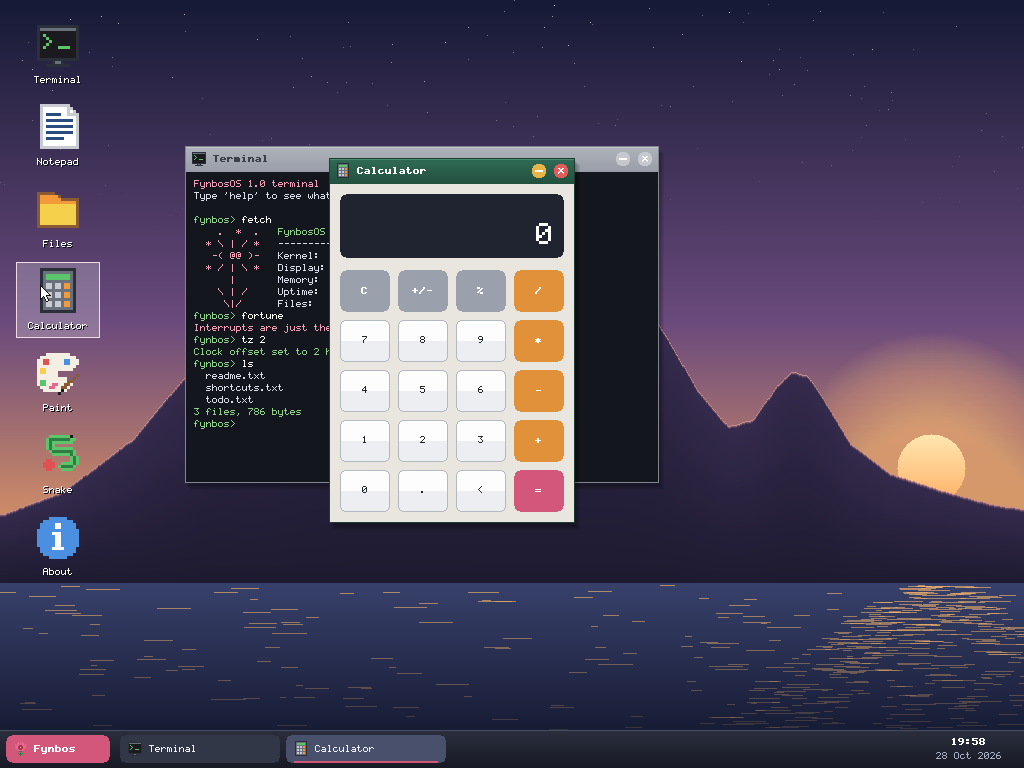
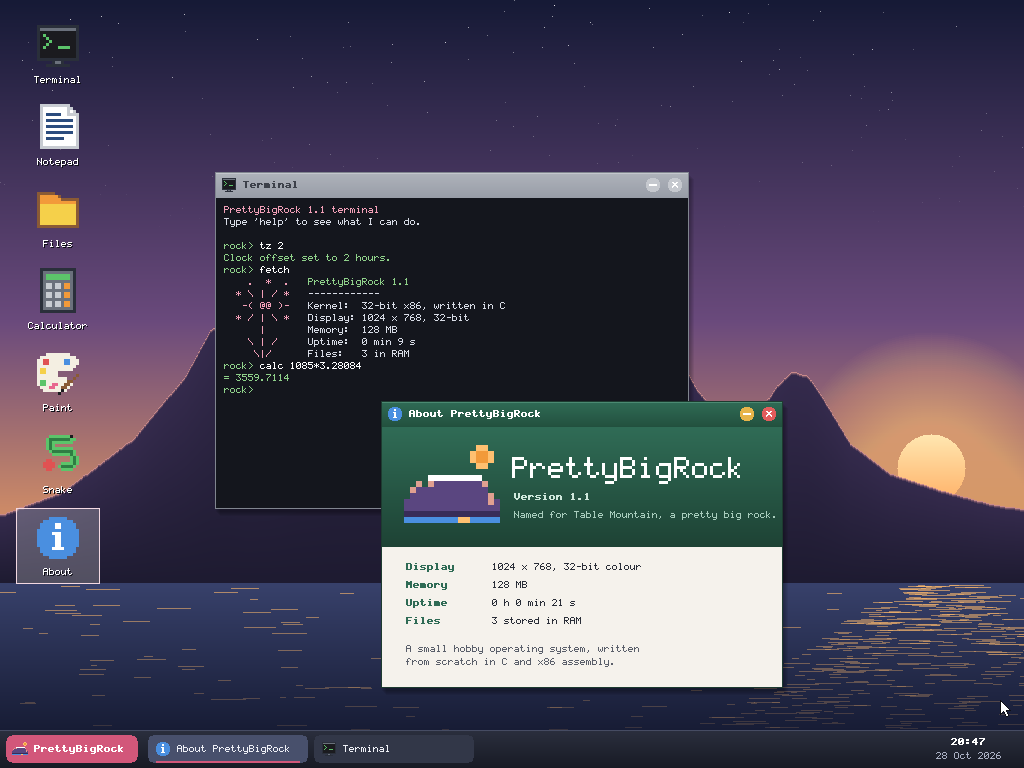
Rename FynbosOS to PrettyBigRock 1.1
Chris points at Table Mountain and calls it a big rock, or a pretty rock.
Renamed the OS throughout, drew a new Table Mountain logo, changed the
terminal prompt to rock>, and hid a small easter egg in the terminal.
The original lives on as tag fynbos-1.0.

Claude-Session: https://claude.ai/code/session_01Aqxv5PaQPAeokxMpVTUa43

diff --git a/kernel/wm.c b/kernel/wm.c
@@ -1,9 +1,11 @@
 /* SPDX-License-Identifier: GPL-3.0-or-later
  * Copyright (C) 2026 Christopher Cameron-Dow */
-/* FynbosOS - window manager, desktop, taskbar and start menu */
+/* PrettyBigRock - window manager, desktop, taskbar and start menu */
 #include "kernel.h"
 
 #define MAXWIN 16
+#define START_W 132
+#define TB_X (START_W + 16)
 
 static window_t wins[MAXWIN];
 static window_t *zord[MAXWIN];
@@ -326,16 +328,16 @@ static void draw_taskbar(void) {
     gfx_fill(0, y, SW, 1, 0x464c63);
 
     /* start button */
-    gfx_round(6, y + 5, 104, TASKBAR_H - 10, 6, menu_open ? 0xa83d5d : C_ACCENT);
-    gfx_icon(ICON_PROTEA, 12, y + 11, 1);
-    gfx_text_bold(34, y + 15, "Fynbos", 0xffffff);
+    gfx_round(6, y + 5, START_W, TASKBAR_H - 10, 6, menu_open ? 0xa83d5d : C_ACCENT);
+    gfx_icon(ICON_LOGO, 12, y + 11, 1);
+    gfx_text_bold(34, y + 15, "PrettyBigRock", 0xffffff);
 
     /* one button per open window */
-    int bx = 120;
+    int bx = TB_X;
     int bw = 160;
     int count = 0;
     for (int i = 0; i < MAXWIN; i++) if (wins[i].used) count++;
-    int avail = SW - 120 - 120;
+    int avail = SW - TB_X - 120;
     if (count && count * (bw + 6) > avail) bw = avail / count - 6;
     window_t *top = wm_top();
     for (int i = 0; i < MAXWIN; i++) {
@@ -371,11 +373,11 @@ static void draw_menu(void) {
     gfx_fill(m.x + 4, m.y + m.h - 4, MENU_BANNER - 4, 4, 0x6a2a52);
     gfx_round(m.x, m.y, 10, 10, 5, 0xd2577a);
     gfx_round(m.x, m.y + m.h - 10, 10, 10, 5, 0x6a2a52);
-    /* vertical "FYNBOS" on the banner */
-    const char *v = "FYNBOS";
+    /* the name runs up the banner */
+    const char *v = "PRETTY BIG ROCK";
     int vl = (int)strlen(v);
     for (int i = 0; i < vl; i++) gfx_char(m.x + 12, m.y + m.h - 14 - (vl - i) * 12, v[i], 0xffffff, 1);
-    gfx_icon(ICON_PROTEA, m.x + 7, m.y + 8, 1);
+    gfx_icon(ICON_LOGO, m.x + 7, m.y + 8, 1);
     for (int i = 0; i < MENU_ITEMS; i++) {
         int iy = menu_item_y(i);
         int ix = m.x + MENU_BANNER + 4;
@@ -411,8 +413,8 @@ static void render(void) {
 static void shutdown_screen(void) {
     gfx_set_clip((rect_t){0, 0, SW, SH});
     gfx_fill(0, 0, SW, SH, 0x12141c);
-    gfx_icon(ICON_PROTEA, SW / 2 - 48, SH / 2 - 120, 6);
-    const char *a = "FynbosOS has shut down.";
+    gfx_icon(ICON_LOGO, SW / 2 - 48, SH / 2 - 120, 6);
+    const char *a = "PrettyBigRock has shut down.";
     const char *b = "You can close the virtual machine window now.";
     gfx_text_scaled((SW - gfx_text_w(a) * 2) / 2, SH / 2 + 2, a, 0xffffff, 2);
     gfx_text((SW - gfx_text_w(b)) / 2, SH / 2 + 36, b, 0xa9afc2);
@@ -440,10 +442,10 @@ static void toggle_menu(void) {
 static void taskbar_click(int dbl) {
     (void)dbl;
     int y = SH - TASKBAR_H;
-    if (mx >= 6 && mx < 110 && my >= y + 5) { toggle_menu(); return; }
-    int bx = 120, bw = 160, count = 0;
+    if (mx >= 6 && mx < 6 + START_W && my >= y + 5) { toggle_menu(); return; }
+    int bx = TB_X, bw = 160, count = 0;
     for (int i = 0; i < MAXWIN; i++) if (wins[i].used) count++;
-    int avail = SW - 120 - 120;
+    int avail = SW - TB_X - 120;
     if (count && count * (bw + 6) > avail) bw = avail / count - 6;
     for (int i = 0; i < MAXWIN; i++) {
         window_t *w = &wins[i];
@@ -466,7 +468,7 @@ static void on_press(void) {
 
     if (menu_open) {
         if (rect_has(menu_rect(), mx, my)) { menu_activate(menu_hit(mx, my)); return; }
-        int on_start = my >= SH - TASKBAR_H && mx < 110;
+        int on_start = my >= SH - TASKBAR_H && mx < 6 + START_W;
         menu_open = 0;
         wm_dirty_all();
         if (on_start) return;

diff --git a/kernel/term.c b/kernel/term.c
@@ -1,6 +1,6 @@
 /* SPDX-License-Identifier: GPL-3.0-or-later
  * Copyright (C) 2026 Christopher Cameron-Dow */
-/* FynbosOS - Terminal app with a small command shell */
+/* PrettyBigRock - Terminal app with a small command shell */
 #include "kernel.h"
 
 #define T_COLS 76
@@ -8,8 +8,8 @@
 #define T_HIST 300
 #define T_INMAX 90
 
-enum { K_NORMAL, K_GOOD, K_BAD, K_CMD, K_HEAD };
-static const u32 kind_color[] = {0xd8dce6, 0x8fd18a, 0xf08a8a, 0xffffff, 0xf2a0b8};
+enum { K_NORMAL, K_GOOD, K_BAD, K_CMD, K_HEAD, K_SPUD };
+static const u32 kind_color[] = {0xd8dce6, 0x8fd18a, 0xf08a8a, 0xffffff, 0xf2a0b8, 0xd9a066};
 
 static char lines[T_HIST][T_COLS + 1];
 static u8 kinds[T_HIST][T_COLS];
@@ -21,7 +21,7 @@ static char hist[16][T_INMAX + 1];
 static int nhist, hpos;
 static window_t *twin;
 
-static const char *PROMPT = "fynbos> ";
+static const char *PROMPT = "rock> ";
 
 static void t_newline(void) {
     if (nlines == T_HIST) {
@@ -87,6 +87,8 @@ static const char *fortunes[] = {
     "The south-easter clears the sky; the reset button clears the RAM.",
     "Small programs have small bugs. Mostly.",
     "When in doubt, print it out.",
+    "The mountain was here first. It can wait for your build to finish.",
+    "Big rock. Pretty rock. Pretty big rock.",
     "Interrupts are just the hardware asking for attention.",
 };
 
@@ -94,7 +96,7 @@ static void cmd_help(void) {
     t_puts("Commands:\n", K_HEAD);
     t_puts("  help              this list\n"
            "  clear             clear the screen\n"
-           "  about             about FynbosOS\n"
+           "  about             about PrettyBigRock\n"
            "  fetch             system summary\n"
            "  time | date       show the clock\n"
            "  tz <hours>        set the clock offset from the hardware time\n"
@@ -216,6 +218,15 @@ static void run(char *line) {
         for (int i = 0; i < APP_COUNT; i++)
             if (ieq_prefix(what, app_names[i])) { app_open(i); return; }
         t_puts("Unknown app. Try: notepad, files, calculator, paint, snake, about\n", K_BAD);
+    } else if (!strcmp(cmd, "potato")) {
+        /* not listed in 'help': you have to know about it */
+        t_puts("        .-~~~~-.\n"
+               "      .'  .     '.\n"
+               "     /  .    .    \\\n"
+               "    |      .    .  |\n"
+               "     \\  .     .   /\n"
+               "      '-.______.-'\n", K_SPUD);
+        t_puts("Hello, potato. <3\n", K_GOOD);
     } else if (!strcmp(cmd, "fortune")) {
         t_printf(K_HEAD, "%s\n", fortunes[krand() % (sizeof fortunes / sizeof *fortunes)]);
     } else if (!strcmp(cmd, "reboot")) reboot();

diff --git a/tools/mkassets.py b/tools/mkassets.py
@@ -1,7 +1,7 @@
 #!/usr/bin/env python3
 # SPDX-License-Identifier: GPL-3.0-or-later
 # Copyright (C) 2026 Christopher Cameron-Dow
-"""Generates kernel/assets.c: the FynbosOS bitmap font, icons and mouse cursor.
+"""Generates kernel/assets.c: the PrettyBigRock bitmap font, icons and mouse cursor.
 Every glyph and icon below was hand-drawn for this project."""
 import sys
 
@@ -110,6 +110,7 @@ PAL = {
  'k':0x1b1b1f,'w':0xffffff,'g':0xc8ccd2,'G':0x6b717c,'r':0xe05252,'o':0xf29a3a,
  'y':0xf5d04a,'e':0x5cc46a,'E':0x2f7d43,'b':0x4a8fe0,'B':0x2b4c7e,'p':0xe8678f,
  'P':0xa8325a,'n':0x8a5a35,'t':0x3aa6a0,'c':0xf4efe2,'s':0x2a2f3a,
+ 'm':0x5a4680,'M':0x382c58,'l':0xe0a090,'O':0xffc070,
 }
 PKEYS = list(PAL.keys())
 
@@ -233,22 +234,22 @@ ICONS = [
 "...bbbbbbbbbb...",
 ".....bbbbbb.....",
 "................"]),
-("protea", [
+("logo", [
 "................",
-"......p.p.p.....",
-".....pp.p.pp....",
-"...p.ppppppp.p..",
-"...ppppPPPpppp..",
-"....ppPPPPPpp...",
-"...pppPPyPPppp..",
-"....ppPPPPPpp...",
-".....ppPPPpp....",
-"......ppppp.....",
-".......EEE......",
-"........E.......",
-"......E.E.E.....",
-".......EEE......",
-"........E.......",
+"............OO..",
+"...........OooO.",
+"...........OooO.",
+"............OO..",
+"................",
+"....wwwwwwwww...",
+"..l.lmmmmmmmml..",
+".lmmmmmmmmmmmm..",
+".mmmmmmmmmmmmml.",
+"mmmmmmmmmmmmmmlm",
+"mmmmmmmmmmmmmmmm",
+"MMMMMMMMMMMMMMMM",
+"bbbbbbbbbOObbbbb",
+"................",
 "................"]),
 ("power", [
 "................",

diff --git a/kernel/apps.c b/kernel/apps.c
@@ -1,6 +1,6 @@
 /* SPDX-License-Identifier: GPL-3.0-or-later
  * Copyright (C) 2026 Christopher Cameron-Dow */
-/* FynbosOS - app launcher plus Calculator, Paint, Snake and About */
+/* PrettyBigRock - app launcher plus Calculator, Paint, Snake and About */
 #include "kernel.h"
 
 const char *app_names[APP_COUNT] = {"Terminal", "Notepad", "Files", "Calculator", "Paint", "Snake", "About"};
@@ -356,10 +356,10 @@ static u32 about_last;
 static void about_draw(window_t *w, int cx, int cy, int cw, int ch) {
     (void)w;
     gfx_vgrad(cx, cy, cw, 120, 0x2f6b55, 0x1d4234);
-    gfx_icon(ICON_PROTEA, cx + 22, cy + 12, 6);
+    gfx_icon(ICON_LOGO, cx + 22, cy + 12, 6);
     gfx_text_scaled(cx + 130, cy + 30, OS_NAME, 0xffffff, 3);
     gfx_text_bold(cx + 132, cy + 66, "Version " OS_VERSION, 0xcfe8dc);
-    gfx_text(cx + 132, cy + 84, "Named for the Cape's wild heath.", 0xa9cdbd);
+    gfx_text(cx + 132, cy + 84, "Named for Table Mountain, a pretty big rock.", 0xa9cdbd);
     gfx_fill(cx, cy + 120, cw, ch - 120, 0xf5f2ec);
     char buf[64];
     u32 s = ticks / 100;
@@ -385,7 +385,7 @@ static void about_tick(window_t *w) {
 }
 
 static void about_open(void) {
-    window_t *w = wm_create("About FynbosOS", 400, 260, APP_ABOUT);
+    window_t *w = wm_create("About PrettyBigRock", 400, 260, APP_ABOUT);
     if (!w) return;
     w->draw = about_draw;
     w->tick = about_tick;

diff --git a/kernel/fs.c b/kernel/fs.c
@@ -1,6 +1,6 @@
 /* SPDX-License-Identifier: GPL-3.0-or-later
  * Copyright (C) 2026 Christopher Cameron-Dow */
-/* FynbosOS - a tiny RAM filesystem (flat, no directories) */
+/* PrettyBigRock - a tiny RAM filesystem (flat, no directories) */
 #include "kernel.h"
 
 typedef struct { int used, size; char name[FS_NAME_LEN]; char *data; } file_t;
@@ -15,9 +15,9 @@ static void seed(const char *name, const char *text) {
 void fs_init(void) {
     for (int i = 0; i < FS_MAX_FILES; i++) files[i].data = kmalloc(FS_MAX_SIZE + 1);
     seed("readme.txt",
-         "Welcome to FynbosOS!\n"
+         "Welcome to PrettyBigRock!\n"
          "\n"
-         "FynbosOS is a small hobby operating system written from\n"
+         "PrettyBigRock is a small hobby operating system written from\n"
          "scratch: its own boot loader, kernel, drivers, font,\n"
          "window manager and apps.\n"
          "\n"
@@ -32,7 +32,7 @@ void fs_init(void) {
     seed("shortcuts.txt",
          "Keyboard shortcuts\n"
          "------------------\n"
-         "Windows key or Ctrl+Esc   open the Fynbos menu\n"
+         "Windows key or Ctrl+Esc   open the start menu\n"
          "Ctrl+W                    close the active window\n"
          "Ctrl+S (Notepad)          save the file\n"
          "Up / Down (Terminal)      command history\n"

diff --git a/kernel/kernel.h b/kernel/kernel.h
@@ -1,6 +1,6 @@
 /* SPDX-License-Identifier: GPL-3.0-or-later
  * Copyright (C) 2026 Christopher Cameron-Dow */
-/* FynbosOS - shared kernel header */
+/* PrettyBigRock - shared kernel header */
 #pragma once
 #include <stdint.h>
 #include <stddef.h>
@@ -13,8 +13,8 @@ typedef int8_t i8;
 typedef int32_t i32;
 typedef uint64_t u64;
 
-#define OS_NAME    "FynbosOS"
-#define OS_VERSION "1.0"
+#define OS_NAME    "PrettyBigRock"
+#define OS_VERSION "1.1"
 
 /* ---------------------------------------------------------------- port I/O */
 static inline void outb(u16 p, u8 v) { __asm__ volatile("outb %0,%1" ::"a"(v), "Nd"(p)); }
@@ -119,7 +119,7 @@ extern const u8 icon_data[][256];
 extern const char *cursor_data[17];
 
 enum { ICON_TERMINAL, ICON_NOTEPAD, ICON_FILES, ICON_CALC, ICON_PAINT, ICON_SNAKE,
-       ICON_ABOUT, ICON_PROTEA, ICON_POWER, ICON_RESTART };
+       ICON_ABOUT, ICON_LOGO, ICON_POWER, ICON_RESTART };
 
 /* ---------------------------------------------------------------- window manager */
 #define TITLE_H 26

diff --git a/kernel/hw.c b/kernel/hw.c
@@ -1,6 +1,6 @@
 /* SPDX-License-Identifier: GPL-3.0-or-later
  * Copyright (C) 2026 Christopher Cameron-Dow */
-/* FynbosOS - hardware: interrupts, timer, keyboard, mouse, clock, power */
+/* PrettyBigRock - hardware: interrupts, timer, keyboard, mouse, clock, power */
 #include "kernel.h"
 
 /* ---------------------------------------------------------------- IDT */
@@ -23,8 +23,8 @@ static void panic(struct regs *r) {
     char buf[96];
     gfx_set_clip((rect_t){0, 0, SW, SH});
     gfx_fill(0, 0, SW, SH, 0x6b1d2a);
-    gfx_icon(ICON_PROTEA, 40, 40, 4);
-    gfx_text_scaled(120, 48, "FynbosOS stopped unexpectedly", 0xffffff, 2);
+    gfx_icon(ICON_LOGO, 40, 40, 4);
+    gfx_text_scaled(120, 48, "PrettyBigRock stopped unexpectedly", 0xffffff, 2);
     ksnprintf(buf, sizeof buf, "%s (exception %u)", r->int_no < 20 ? exc_names[r->int_no] : "Reserved", r->int_no);
     gfx_text_scaled(120, 80, buf, 0xffd7de, 1);
     ksnprintf(buf, sizeof buf, "EIP=%08x  ERR=%08x  EAX=%08x  ESP=%08x", r->eip, r->err, r->eax, r->esp);

diff --git a/kernel/main.c b/kernel/main.c
@@ -1,11 +1,11 @@
 /* SPDX-License-Identifier: GPL-3.0-or-later
  * Copyright (C) 2026 Christopher Cameron-Dow */
-/* FynbosOS - kernel entry point */
+/* PrettyBigRock - kernel entry point */
 #include "kernel.h"
 
 static void boot_splash(void) {
     gfx_fill(0, 0, SW, SH, 0x12141c);
-    gfx_icon(ICON_PROTEA, SW / 2 - 48, SH / 2 - 110, 6);
+    gfx_icon(ICON_LOGO, SW / 2 - 48, SH / 2 - 110, 6);
     gfx_text_scaled(SW / 2 - gfx_text_w(OS_NAME) * 3 / 2, SH / 2 + 6, OS_NAME, 0xffffff, 3);
     gfx_present((rect_t){0, 0, SW, SH});
 }

diff --git a/kernel/gfx.c b/kernel/gfx.c
@@ -1,6 +1,6 @@
 /* SPDX-License-Identifier: GPL-3.0-or-later
  * Copyright (C) 2026 Christopher Cameron-Dow */
-/* FynbosOS - 2D graphics on a double-buffered linear framebuffer */
+/* PrettyBigRock - 2D graphics on a double-buffered linear framebuffer */
 #include "kernel.h"
 
 struct bootinfo { u32 fb; u16 w, h, pitch; u8 bpp; } __attribute__((packed));

diff --git a/kernel/lib.c b/kernel/lib.c
@@ -1,6 +1,6 @@
 /* SPDX-License-Identifier: GPL-3.0-or-later
  * Copyright (C) 2026 Christopher Cameron-Dow */
-/* FynbosOS - small C library: memory, strings, formatting, maths */
+/* PrettyBigRock - small C library: memory, strings, formatting, maths */
 #include "kernel.h"
 
 void *memset(void *d, int c, size_t n) {

diff --git a/kernel/notepad.c b/kernel/notepad.c
@@ -1,6 +1,6 @@
 /* SPDX-License-Identifier: GPL-3.0-or-later
  * Copyright (C) 2026 Christopher Cameron-Dow */
-/* FynbosOS - Notepad and the Files browser */
+/* PrettyBigRock - Notepad and the Files browser */
 #include "kernel.h"
 
 /* ================================================================ Notepad */

diff --git a/README.md b/README.md
@@ -1,16 +1,19 @@
-# FynbosOS 1.0
+# PrettyBigRock
 
 A small 32-bit x86 operating system with a graphical desktop, written from scratch:
 boot loader, kernel, drivers, bitmap font, icons, window manager and apps.
-The wallpaper is Table Mountain at dusk, tablecloth and all, drawn procedurally at boot.
+It's named after Table Mountain, a pretty big rock, which is also its wallpaper: drawn
+procedurally at boot, at dusk, tablecloth and all.
 
-![FynbosOS desktop](screenshot.png)
+![PrettyBigRock desktop](screenshot.png)
 
 ## How this was made
 
-FynbosOS 1.0 was written by **Claude** (Anthropic's AI model) from a single prompt by Chris:
+The first version was written by **Claude** (Anthropic's AI model) from a single prompt by Chris:
 *"Could you write me an operating system that I could boot in a VM. This OS should have a GUI.
 Try not to plagiarise too much."* Claude wrote every line of code, the font and the icons.
+It was called **FynbosOS** at first; that original is kept in this repository's history under
+the tag `fynbos-1.0`, and was renamed to PrettyBigRock in version 1.1.
 From here on, Chris and Claude are developing it together, and [DEVLOG.md](DEVLOG.md)
 records who did what in each session.
 
@@ -36,9 +39,9 @@ below), and put it in a `build/` folder:
 
 | Hypervisor | File | Notes |
 |---|---|---|
-| QEMU / Proxmox | `fynbos.img` | `qemu-system-i386 -m 128 -drive file=fynbos.img,format=raw`, or on Windows double-click `run-fynbos.bat` |
-| VirtualBox | `fynbos.vdi` | New VM, type *Other*, version *Other/Unknown*, 64 MB+ RAM, attach as the hard disk |
-| VMware | `fynbos.vmdk` | New VM, guest *Other*, use an existing disk, BIOS firmware |
+| QEMU / Proxmox | `prettybigrock.img` | `qemu-system-i386 -m 128 -drive file=prettybigrock.img,format=raw`, or on Windows double-click `run-prettybigrock.bat` |
+| VirtualBox | `prettybigrock.vdi` | New VM, type *Other*, version *Other/Unknown*, 64 MB+ RAM, attach as the hard disk |
+| VMware | `prettybigrock.vmdk` | New VM, guest *Other*, use an existing disk, BIOS firmware |
 
 Requirements: **legacy BIOS boot** (not UEFI) and a **PS/2 mouse**. In VirtualBox set
 System > Pointing Device to *PS/2 Mouse*; with the default USB tablet the pointer won't move.
@@ -59,7 +62,7 @@ Needs `gcc` (with `-m32` support), `nasm`, `ld`, `objcopy` and Python 3; `qemu-i
 
 Copyright (C) 2026 Christopher Cameron-Dow
 
-FynbosOS is free software: you can redistribute it and/or modify it under the terms of the
+PrettyBigRock is free software: you can redistribute it and/or modify it under the terms of the
 GNU General Public License as published by the Free Software Foundation, either version 3
 of the License, or (at your option) any later version. It is distributed in the hope that it
 will be useful, but WITHOUT ANY WARRANTY. See [LICENSE](LICENSE) for the full text.
